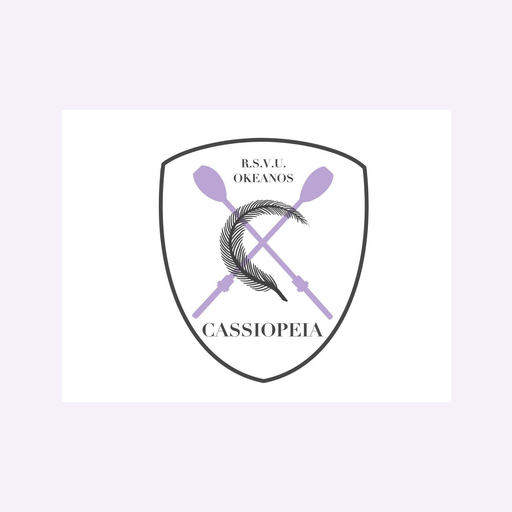
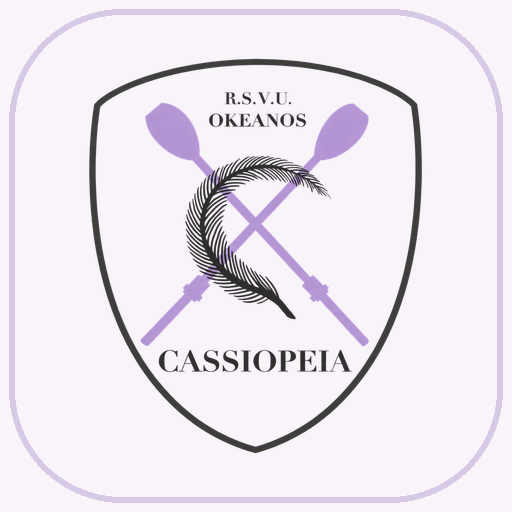
Replace branding with transparent Cassiopeia crest

diff --git a/public/index.html b/public/index.html
@@ -12,7 +12,7 @@
     <meta name="apple-mobile-web-app-title" content="Cassiopeia" />
     <meta property="og:title" content="Dameschdispuut Cassiopeia · Lustrum III" />
     <meta property="og:description" content="Het besloten ledenportaal voor activiteiten, jaarplanning en leden." />
-    <meta property="og:image" content="https://www.dispuutcassiopeia.nl/assets/og.png" />
+    <meta property="og:image" content="https://www.dispuutcassiopeia.nl/assets/og.png?v=20260831-logo" />
     <meta property="og:image:width" content="1200" />
     <meta property="og:image:height" content="630" />
     <meta property="og:type" content="website" />
@@ -20,11 +20,11 @@
     <meta name="twitter:card" content="summary_large_image" />
     <meta name="twitter:title" content="Dameschdispuut Cassiopeia · Lustrum III" />
     <meta name="twitter:description" content="Het besloten ledenportaal voor activiteiten, jaarplanning en leden." />
-    <meta name="twitter:image" content="https://www.dispuutcassiopeia.nl/assets/og.png" />
+    <meta name="twitter:image" content="https://www.dispuutcassiopeia.nl/assets/og.png?v=20260831-logo" />
     <link rel="manifest" href="manifest.webmanifest" />
-    <link rel="icon" type="image/png" sizes="32x32" href="assets/app-icon-32.png" />
-    <link rel="apple-touch-icon" sizes="180x180" href="assets/app-icon-180.png" />
-    <link rel="stylesheet" href="styles.css?v=20260831-calendar" />
+    <link rel="icon" type="image/png" sizes="32x32" href="assets/app-icon-32.png?v=20260831-logo" />
+    <link rel="apple-touch-icon" sizes="180x180" href="assets/app-icon-180.png?v=20260831-logo" />
+    <link rel="stylesheet" href="styles.css?v=20260831-logo" />
   </head>
   <body>
     <section id="loginScreen" class="login-screen">
@@ -34,7 +34,7 @@
         <span aria-hidden="true">↓</span> Installeer app
       </button>
       <form id="loginForm" class="login-card">
-        <img class="login-crest" data-site-asset="logo" src="assets/cassiopeia-embleem.png" alt="Embleem van Dameschdispuut Cassiopeia" />
+        <img class="login-crest" data-site-asset="logo" src="assets/cassiopeia-embleem.png?v=20260831-logo" alt="Embleem van Dameschdispuut Cassiopeia" />
         <h1>Login Dameschdispuut Cassiopeia</h1>
         <input name="email" type="email" autocomplete="email" placeholder="E-mailadres" aria-label="E-mail" required />
         <input name="password" type="password" autocomplete="current-password" placeholder="Wachtwoord" aria-label="Wachtwoord" required />
@@ -43,7 +43,7 @@
         <p id="loginError" class="login-error" role="alert"></p>
       </form>
       <form id="activationForm" class="login-card hidden">
-        <img class="login-crest" data-site-asset="logo" src="assets/cassiopeia-embleem.png" alt="Embleem van Dameschdispuut Cassiopeia" />
+        <img class="login-crest" data-site-asset="logo" src="assets/cassiopeia-embleem.png?v=20260831-logo" alt="Embleem van Dameschdispuut Cassiopeia" />
         <p class="eyebrow">Persoonlijke uitnodiging</p>
         <h1 id="activationTitle">Account activeren</h1>
         <p id="activationIntro" class="login-help">Uitnodiging controleren...</p>
@@ -57,7 +57,7 @@
 
     <header class="site-header hidden">
       <a class="brand" href="#home" aria-label="Cassiopeia home">
-        <span class="brand-mark brand-mark-crest"><img data-site-asset="logo" src="assets/cassiopeia-embleem.png" alt="" /></span>
+        <span class="brand-mark brand-mark-crest"><img data-site-asset="logo" src="assets/cassiopeia-embleem.png?v=20260831-logo" alt="" /></span>
         <span class="brand-copy"><strong>Dameschdispuut Cassiopeia</strong><span>Lustrum III · Ledenportaal</span></span>
       </a>
       <button id="menuToggle" class="menu-toggle" type="button" aria-label="Menu openen" aria-expanded="false">
@@ -102,7 +102,7 @@
           <div class="portal-hero-media" aria-label="Groepsfoto van Cassiopeia">
             <img class="portal-hero-background" data-site-asset="herobackground" src="assets/cassio-background.jpeg" alt="Groepsfoto van Cassiopeia" />
             <div class="hero-crest-card">
-              <img data-site-asset="hero" src="assets/cassiopeia-embleem.png" alt="Embleem van Cassiopeia" />
+              <img data-site-asset="hero" src="assets/cassiopeia-embleem.png?v=20260831-logo" alt="Embleem van Cassiopeia" />
               <span>R.S.V.U. Okeanos</span>
             </div>
           </div>
@@ -356,11 +356,11 @@
           <div class="section-head"><div><p class="eyebrow">Vormgeving</p><h2>Website-afbeeldingen</h2><p class="section-intro">Vervang het logo, de homefoto of het lustrumbeeld. PNG, JPG of WebP tot 5 MB.</p></div></div>
           <div class="admin-image-edit-grid">
             <article class="admin-image-edit-card">
-              <div class="admin-image-preview admin-image-preview-logo"><img data-admin-image-preview="logo" data-site-asset="logo" src="assets/cassiopeia-embleem.png" alt="Huidig logo" /></div>
+              <div class="admin-image-preview admin-image-preview-logo"><img data-admin-image-preview="logo" data-site-asset="logo" src="assets/cassiopeia-embleem.png?v=20260831-logo" alt="Huidig logo" /></div>
               <div><span class="module-label">Logo</span><h3>Logo aanpassen</h3><label class="image-upload-button">Afbeelding wijzigen<input name="logo" type="file" accept="image/png,image/jpeg,image/webp" /></label></div>
             </article>
             <article class="admin-image-edit-card">
-              <div class="admin-image-preview admin-image-preview-hero"><img data-admin-image-preview="hero" data-site-asset="hero" src="assets/cassiopeia-embleem.png" alt="Huidig lustrumbeeld" /></div>
+              <div class="admin-image-preview admin-image-preview-hero"><img data-admin-image-preview="hero" data-site-asset="hero" src="assets/cassiopeia-embleem.png?v=20260831-logo" alt="Huidig lustrumbeeld" /></div>
               <div><span class="module-label">Homebeeld</span><h3>Lustrumbeeld aanpassen</h3><label class="image-upload-button">Afbeelding wijzigen<input name="hero" type="file" accept="image/png,image/jpeg,image/webp" /></label></div>
             </article>
             <article class="admin-image-edit-card">
@@ -592,7 +592,7 @@
     <dialog id="installAppDialog" class="install-app-dialog">
       <div class="dialog-card install-app-card">
         <div class="install-app-icon" aria-hidden="true">
-          <img src="assets/app-icon-192.png" alt="" />
+          <img src="assets/app-icon-192.png?v=20260831-logo" alt="" />
         </div>
         <div class="dialog-heading">
           <p class="eyebrow">Altijd bij de hand</p>

diff --git a/test/security.test.js b/test/security.test.js
@@ -116,6 +116,23 @@ test("the portal is installable as a web app without caching private API data", 
   assert.doesNotMatch(serviceWorker, /caches\.put\([^\n]*\/api\//);
 });
 
+test("the supplied transparent Cassiopeia crest is used for the site and app icons", () => {
+  const html = fs.readFileSync(path.join(projectRoot, "public", "index.html"), "utf8");
+  const manifest = JSON.parse(fs.readFileSync(path.join(projectRoot, "public", "manifest.webmanifest"), "utf8"));
+  const logo = fs.readFileSync(path.join(projectRoot, "public", "assets", "cassiopeia-embleem.png"));
+  const appIcon = fs.readFileSync(path.join(projectRoot, "public", "assets", "app-icon-512.png"));
+
+  assert.equal(logo.subarray(1, 4).toString(), "PNG");
+  assert.equal(logo.readUInt32BE(16), 918);
+  assert.equal(logo.readUInt32BE(20), 1078);
+  assert.equal(logo[25], 6, "the site crest must preserve RGBA transparency");
+  assert.equal(appIcon.readUInt32BE(16), 512);
+  assert.equal(appIcon.readUInt32BE(20), 512);
+  assert.match(html, /cassiopeia-embleem\.png\?v=20260831-logo/);
+  assert.match(html, /app-icon-180\.png\?v=20260831-logo/);
+  assert.ok(manifest.icons.every((icon) => icon.src.includes("v=20260831-logo")));
+});
+
 test("calendar feeds preserve dates, ranges and escaped titles", () => {
   const dates = parseLocalYearAgendaDate({ monthLabel: "Oktober 2026", dayLabel: "3-5" });
   assert.equal(dates.start.toISOString(), "2026-10-03T00:00:00.000Z");

diff --git a/src/db.js b/src/db.js
@@ -171,6 +171,7 @@ function initializeDatabase() {
   purgeExistingNonAdminMembers();
   seedYearAgenda();
   syncCsvYearAgendaData();
+  installOfficialLogoAssets();
 }
 
 function ensureColumn(table, column, definition) {
@@ -178,6 +179,25 @@ function ensureColumn(table, column, definition) {
   if (!columns.some((item) => item.name === column)) {
     db.prepare(`ALTER TABLE ${table} ADD COLUMN ${column} ${definition}`).run();
   }
+}
+
+function installOfficialLogoAssets() {
+  const migrationKey = "official_transparent_logo_2026_08_31_v1";
+  if (db.prepare("SELECT 1 FROM app_settings WHERE key = ?").get(migrationKey)) return;
+
+  const logoPath = path.join(__dirname, "..", "public", "assets", "cassiopeia-embleem.png");
+  const logoData = fs.readFileSync(logoPath).toString("base64");
+  db.transaction(() => {
+    const saveAsset = db.prepare(`
+      INSERT INTO site_assets (key, file_name, mime_type, data, updated_by, updated_at)
+      VALUES (?, 'cassiopeia-embleem.png', 'image/png', ?, NULL, CURRENT_TIMESTAMP)
+      ON CONFLICT(key) DO UPDATE SET file_name = excluded.file_name, mime_type = excluded.mime_type,
+        data = excluded.data, updated_by = NULL, updated_at = CURRENT_TIMESTAMP
+    `);
+    saveAsset.run("logo", logoData);
+    saveAsset.run("hero", logoData);
+    db.prepare("INSERT INTO app_settings (key, value) VALUES (?, 'complete')").run(migrationKey);
+  })();
 }
 
 function bootstrapAdmin() {

diff --git a/public/styles.css b/public/styles.css
@@ -226,14 +226,14 @@ p {
   overflow: hidden;
   border: 1px solid var(--line);
   border-radius: 14px;
-  background: #fff;
+  padding: 4px;
+  background: transparent;
 }
 
 .brand-mark img {
   width: 100%;
   height: 100%;
-  object-fit: cover;
-  transform: scale(1.22);
+  object-fit: contain;
 }
 
 .brand-copy {
@@ -582,9 +582,9 @@ main {
 }
 
 .hero-crest-card img {
-  width: 88px;
-  height: 92px;
-  object-fit: cover;
+  width: 92px;
+  height: 108px;
+  object-fit: contain;
 }
 
 .hero-crest-card span {
@@ -2167,7 +2167,8 @@ label {
 }
 
 .admin-image-preview-hero img {
-  object-fit: cover;
+  padding: 6px;
+  object-fit: contain;
 }
 
 .admin-image-preview-background img {
@@ -3308,7 +3309,7 @@ dialog::backdrop {
   width: 118px;
   height: 140px;
   margin: -58px 0 -24px;
-  object-fit: cover;
+  object-fit: contain;
 }
 
 .login-card input {
@@ -3543,7 +3544,8 @@ dialog::backdrop {
 .install-app-icon img {
   width: 100%;
   height: 100%;
-  object-fit: cover;
+  padding: 7px;
+  object-fit: contain;
 }
 
 .install-app-card .dialog-heading p:last-child {

diff --git a/public/offline.html b/public/offline.html
@@ -5,11 +5,11 @@
     <meta name="viewport" content="width=device-width, initial-scale=1, viewport-fit=cover" />
     <meta name="theme-color" content="#bba5d4" />
     <title>Cassiopeia · Offline</title>
-    <link rel="stylesheet" href="offline.css" />
+    <link rel="stylesheet" href="offline.css?v=20260831-logo" />
   </head>
   <body>
     <main class="offline-card">
-      <img src="assets/cassiopeia-embleem.png" alt="" />
+      <img src="assets/cassiopeia-embleem.png?v=20260831-logo" alt="" />
       <p class="eyebrow">Cassiopeia</p>
       <h1>Je bent even offline</h1>
       <p>De ledenomgeving heeft internet nodig om actuele gegevens te tonen.</p>

diff --git a/public/sw.js b/public/sw.js
@@ -1,14 +1,14 @@
-const CACHE_NAME = "cassiopeia-pwa-v2";
+const CACHE_NAME = "cassiopeia-pwa-v3";
 const APP_SHELL = [
   "/",
   "/offline.html",
-  "/offline.css",
+  "/offline.css?v=20260831-logo",
   "/manifest.webmanifest",
-  "/styles.css?v=20260831-calendar",
+  "/styles.css?v=20260831-logo",
   "/app.js?v=20260831-calendar",
-  "/assets/app-icon-192.png",
-  "/assets/app-icon-512.png",
-  "/assets/cassiopeia-embleem.png",
+  "/assets/app-icon-192.png?v=20260831-logo",
+  "/assets/app-icon-512.png?v=20260831-logo",
+  "/assets/cassiopeia-embleem.png?v=20260831-logo",
   "/assets/lustrum-patroon.png"
 ];
 

diff --git a/public/offline.css b/public/offline.css
@@ -27,8 +27,8 @@ body {
 }
 
 .offline-card img {
-  width: 130px;
-  height: 105px;
+  width: 122px;
+  height: 144px;
   object-fit: contain;
 }
 
